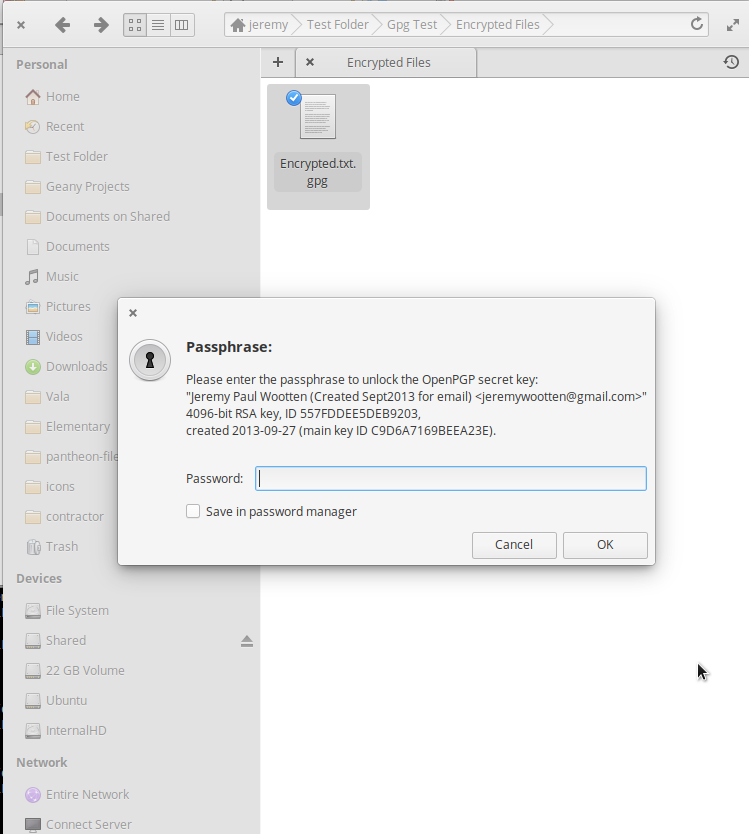
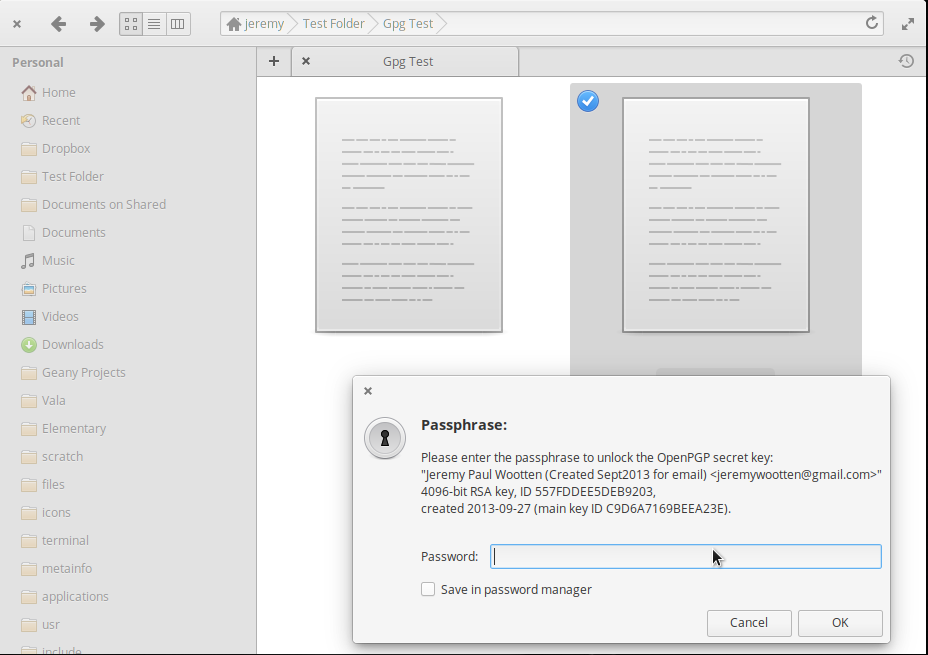
Update README.md; Reduce number of screenshots;

diff --git a/README.md b/README.md
@@ -1,2 +1,48 @@
 # gpg_wrapper
-A simple encryption/decryption tool suitable for use as a contractor in elementaryos
+[![License: GPL v3](https://img.shields.io/badge/License-GPL%20v3-blue.svg)](http://www.gnu.org/licenses/gpl-3.0)
+
+A *simple* encryption/decryption tool suitable for use as a contractor in elementaryos
+
+![Screenshot](/data/screenshots/Decrypt.png?raw=true "Encrypt and Decrypt context menu options")
+
+Can also be used from the command line:
+
+##To Encrypt
+`com.github.jeremypw.gpg-wrapper -e [PATHS to files requiring encryption]`
+
+Files will be individually encrypted using the user's default gpg key, adding `.gpg` as an extension.
+PATHS may contains wild cards. The original files remain.
+
+##To Decrypt
+`com.github.jeremypw.gpg-wrapper -d [PATHS to gpg encrypted files]`
+
+A dialog requiring input of the passphrase for the user's default key will appear. Upon its entry, files
+will be decrypted, removing any `.gpg` extension. The encrypted files remain.  It is assumed that the files
+submitted to the tool have been encrypted by gpg with the default key.
+
+### Dependencies
+These dependencies must be present before building
+ - `valac`
+ - `meson`
+ - `glib-2.0`
+
+ You can install these on a Ubuntu-based system by executing this command:
+
+ `sudo apt install valac meson libglib2.0-dev`
+
+### Building
+```
+meson build --prefix=/usr  --buildtype=release
+cd build
+ninja
+```
+
+### Installing & executing
+```
+sudo ninja install
+```
+
+You will now find that the context menu in Pantheon Files shows an extra entry when more than one file item
+has been selected. Clicking on this option results in the renamer window being launched with the selected files
+appearing in the "Old Name" list.  You can also lauch the renamer from the command line with:
+```
